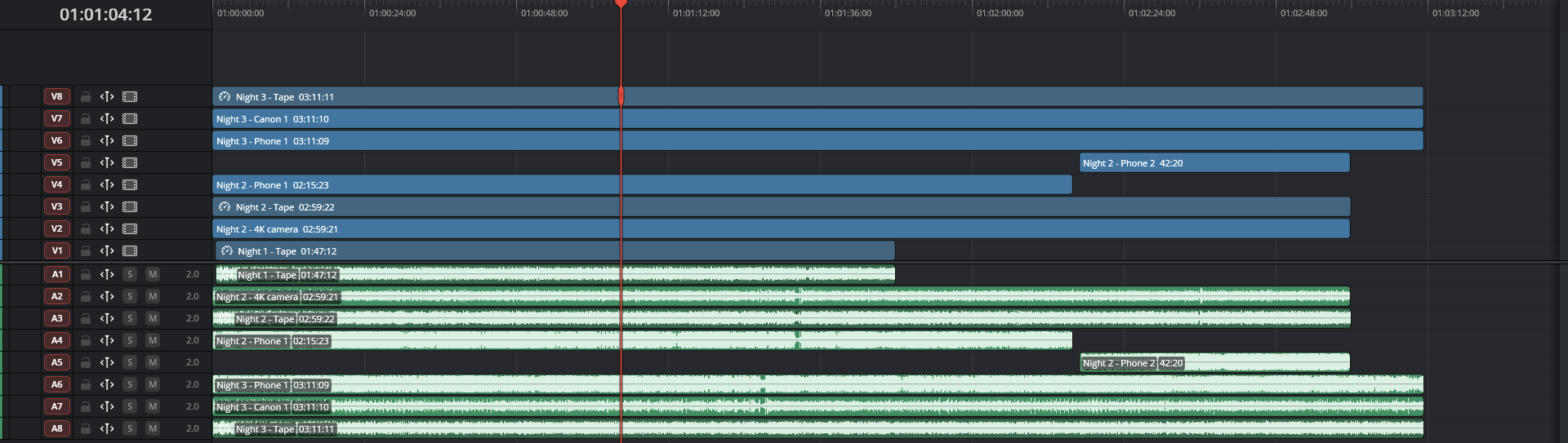
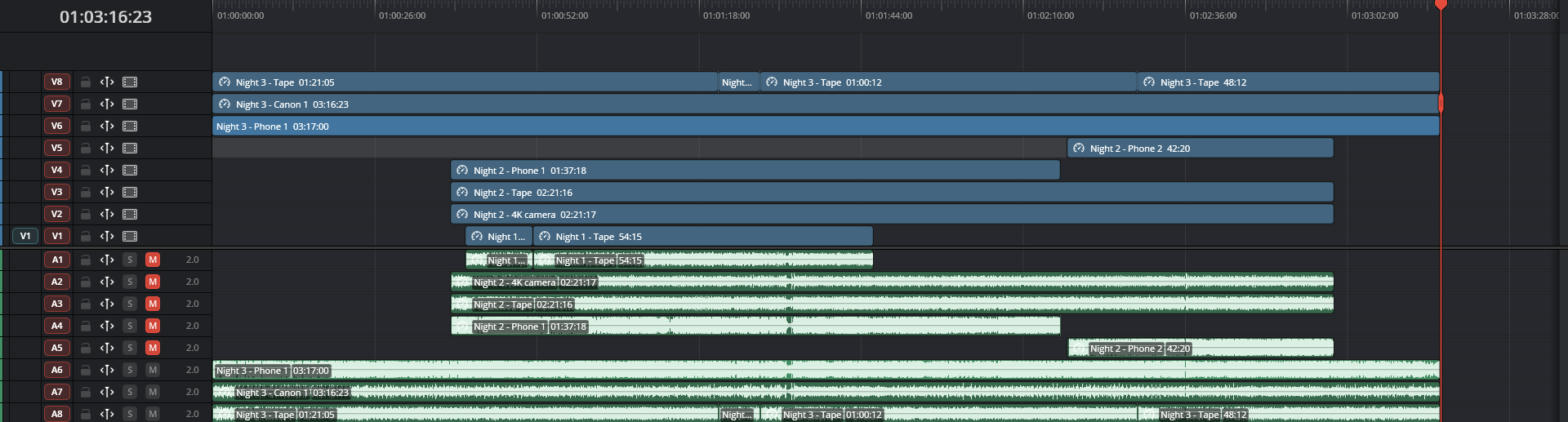
Song timelines: speed-match takes from other nights
A song timeline placed every take with one offset taken at the song
start, so takes from different nights drifted with the tempo difference
(measured on real footage: one night +600 ms, another wandering 0.2-1.5 s
off). Songs with takes from several owners are now built like master
timelines: the longest take runs at its own time, the others follow the
song map, re-cut and speed-matched within max_warp_pct, audio muted.
Measured after the change: other nights within about +-60 ms.

ApplyOptions.song_align = "warp" (default) | "offset" (previous layout).
README song screenshot and text updated.

diff --git a/tests/test_plugin_logic.py b/tests/test_plugin_logic.py
@@ -173,7 +173,7 @@ def test_event_timeline_plan(res):
 
 
 def test_song_timeline_plan(res):
-    plan = core.build_apply_plan(res, TL_FPS, core.ApplyOptions(event_timelines=False, song_markers=False))
+    plan = core.build_apply_plan(res, TL_FPS, core.ApplyOptions(event_timelines=False, song_markers=False, song_align="offset"))
     names = [t.name for t in plan.timelines]
     assert names == ["ShowSync Song - Alpha", "ShowSync Song - Beta"]
     alpha = plan.timelines[0]
@@ -470,7 +470,7 @@ def make_ref_result():
 
 def test_reference_in_group_is_optional_top_audio_track():
     res = make_ref_result()
-    plan = core.build_apply_plan(res, TL_FPS, core.ApplyOptions(tc_mode="event"))
+    plan = core.build_apply_plan(res, TL_FPS, core.ApplyOptions(tc_mode="event", song_align="offset"))
     g2 = next(t for t in plan.timelines if t.name.startswith("ShowSync G02"))
     assert g2.n_video == 2 and g2.n_audio == 3                      # D, E + reference on audio 3
     ref = [p for p in g2.placements if p.clip_id == "R"]
@@ -631,7 +631,7 @@ def test_song_handles_trimmed_at_song_start():
     assert a.record_frame == 0 and a.start_frame == 320 * 25                         # head handle cannot go before 0
     assert a.end_frame == 600 * 25                                                    # tail handle clamped to media end
     assert any("head handle trimmed" in w for w in tp.warnings)
-    plan = core.build_apply_plan(res, TL_FPS, core.ApplyOptions(event_timelines=False, song_markers=False,
+    plan = core.build_apply_plan(res, TL_FPS, core.ApplyOptions(event_timelines=False, song_markers=False, song_align="offset",
                                                                 handles_s=20.0))
     assert plan.timelines[1].placements[0].end_frame == 600 * 25
 
@@ -863,7 +863,7 @@ def test_missing_clips_leave_no_empty_tracks(tmp_path):
     res = make_result()
     paths = [c["path"] for c in res.clips.values() if not c["path"].endswith(("b_phone.mp4", "c_hi8.avi"))]
     layer = FakeLayer(paths, res)
-    plan = core.build_apply_plan(res, TL_FPS, core.ApplyOptions(event_timelines=False, song_markers=False))
+    plan = core.build_apply_plan(res, TL_FPS, core.ApplyOptions(event_timelines=False, song_markers=False, song_align="offset"))
     bk = core.Backup.new(str(tmp_path / "r.json"))
     errs = ops.apply_plan(layer, plan, bk, log=lambda m: None)
     assert all("clip not in media pool" in e for e in errs) and errs
@@ -1399,3 +1399,18 @@ def test_real_data_same_night_angles_agree_in_master_timelines(song_id):
             v.sort()
             assert abs(v[len(v) // 2]) <= 20.0, (res.clip_name(c), v[len(v) // 2])      # live bug: 40-100 ms
 
+
+
+def test_song_timeline_with_takes_from_several_owners_is_speed_matched():
+    """Real footage (2026-11-23): song timelines that placed each night with one offset drifted
+    0.6-1.5 s between nights. With takes from several owners the song timeline is now built like a
+    master: the longest take at its own time, the others following the song map, their audio muted."""
+    res = _master_night_result()
+    plan = core.build_apply_plan(res, TL_FPS, core.ApplyOptions(event_timelines=False, song_markers=False))
+    multi = [s for s in res.songs if len({x["owner"] for x in res.song_segments(s["id"])}) > 1]
+    assert multi
+    for s in multi:
+        tp = next(t for t in plan.timelines if t.name == core._safe_name("ShowSync Song - %s" % s["name"]))
+        assert tp.kind == "song"
+        assert tp.master_audio_slots                       # the base take's audio plays
+        assert tp.muted_audio_slots                        # other takes' audio is muted (they are speed-matched)

diff --git a/resolve_plugin/showsync_core.py b/resolve_plugin/showsync_core.py
@@ -544,6 +544,8 @@ class ApplyPlan:
 class ApplyOptions:
     event_timelines: bool = True
     song_timelines: bool = True
+    song_align: str = "warp"           # songs with takes from several nights/owners: "warp" (speed-matched
+                                       # to the longest take, others muted) | "offset" (one offset per take)
     song_markers: bool = True
     tc_mode: str = "none"              # none | event | song
     propagate_source: str = ""         # clip id whose markers are propagated
@@ -1473,7 +1475,24 @@ def build_apply_plan(res: Result, tl_fps: float, opts: ApplyOptions) -> ApplyPla
             plan.timelines.append(build_event_timeline(res, gi, tl_fps, opts.frac))
     if opts.song_timelines:
         for song in res.songs:
-            tp = build_song_timeline(res, song, tl_fps, opts.handles_s, opts.whole_clips)
+            owners = {s["owner"] for s in res.song_segments(song["id"])}
+            if opts.song_align == "warp" and len(owners) > 1:
+                # Takes from different nights/owners: one constant offset per take (aligned at the song
+                # start) drifts with the tempo difference. Measured on real footage (2026-11-23): one
+                # night +600 ms, another wandering 0.2-1.5 s. So stack them like a master timeline:
+                # the longest take runs at its own time, every other take follows the song map,
+                # speed-matched within max_warp_pct, its audio muted (warped audio would be pitched).
+                tp = build_master_timeline(res, song, tl_fps, opts.handles_s, opts.whole_clips, None,
+                                           opts.max_warp_pct, "muted", opts.master_tol_frames)
+                if tp:
+                    old = tp.name
+                    tp.name = _safe_name("ShowSync Song - %s" % song["name"])
+                    tp.kind = "song"
+                    for mk in tp.markers:
+                        if mk.timeline == old:
+                            mk.timeline = tp.name
+            else:
+                tp = build_song_timeline(res, song, tl_fps, opts.handles_s, opts.whole_clips)
             if tp:
                 plan.timelines.append(tp)
     if opts.master_mode:

diff --git a/README.md b/README.md
@@ -16,7 +16,8 @@ mix of pro cameras, phones, Hi8 tapes and audio recorders. Built for DaVinci Res
 - **Results land in Resolve**:
   - one timeline per synced group, with all angles stacked and drifting angles re-cut so they
     never slip by more than half a frame;
-  - one timeline per song, with every take stacked on song time;
+  - one timeline per song, with every take stacked on song time and speed-matched to the longest take,
+    so takes from different nights stay on the beat;
   - song markers on clips;
   - optionally, rewritten timecode (event or song time). Every change can be undone.
 
@@ -37,7 +38,8 @@ muted.
 
 ![Master timeline: one song from three nights aligned to the master night](docs/img/master_timeline.jpg)
 
-**Every take of one song.** All takes from all nights, stacked on song time.
+**Every take of one song.** All takes from all nights. The longest take runs at its own time; the others
+follow the song, re-cut and speed-matched to it, with their audio muted.
 
 ![Song timeline: every take of one song stacked](docs/img/song_timeline.jpg)
 
